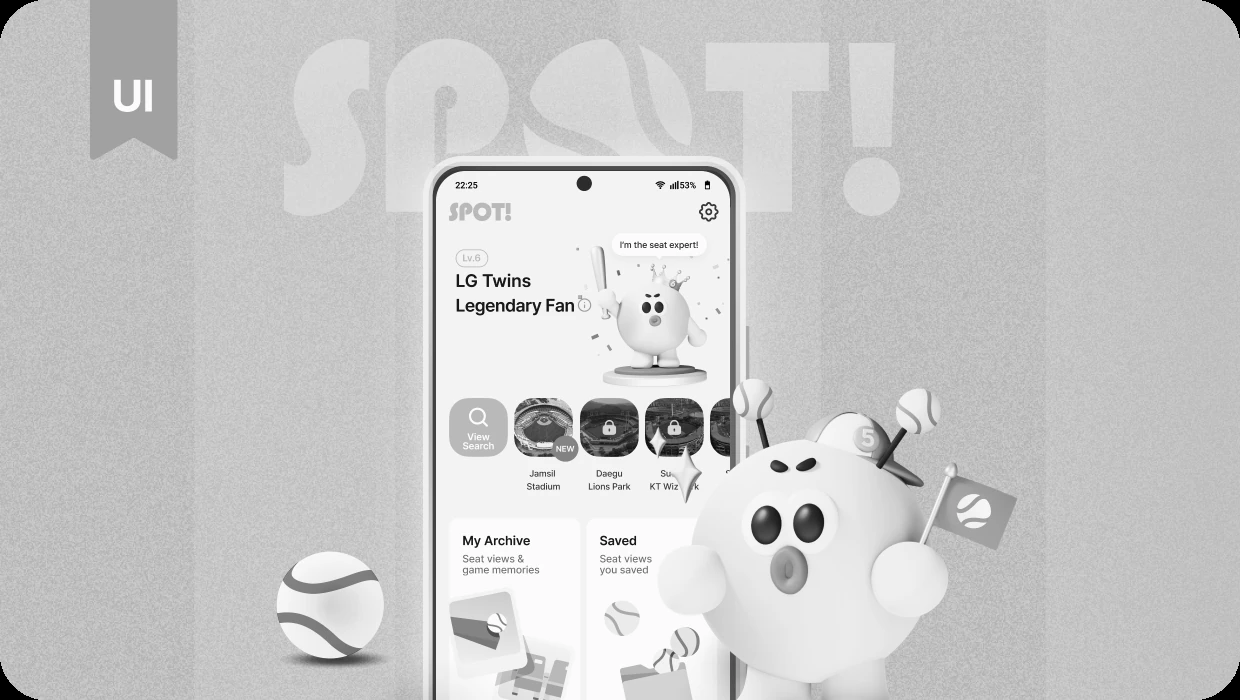
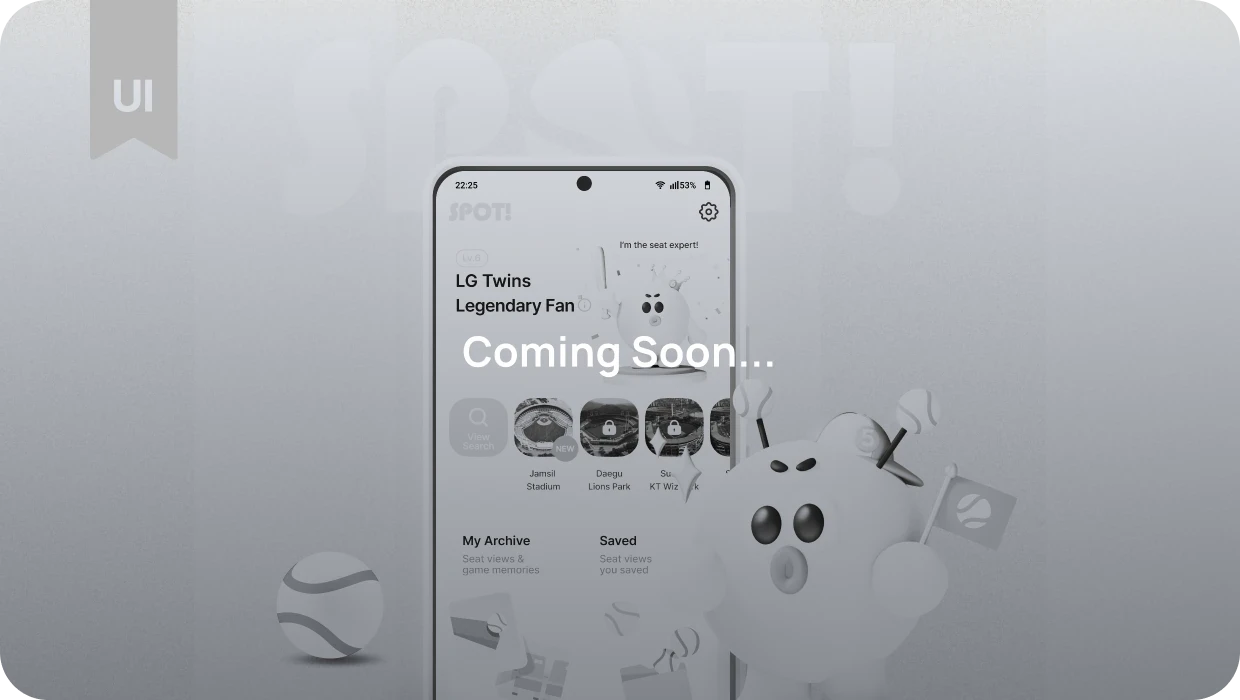
Disabled work cards: Coming Soon thumbnails and updated gray colors (Figma)

diff --git a/styles.css b/styles.css
@@ -18,9 +18,9 @@
   --color-line-light:   #d7d7d7;   /* About dividers — Figma */
 
   /* Disabled work card — Figma */
-  --color-disabled-tag:   #6b6b6b;
-  --color-disabled-title: #959595;
-  --color-disabled-desc:  #a9a9ad;
+  --color-disabled-tag:   #86898e;
+  --color-disabled-title: #86898e;
+  --color-disabled-desc:  #a9abaf;
   --color-divider:      #bcbcbc;   /* Strength open divider */
 
   /* Footer — Figma */
@@ -1189,6 +1189,11 @@ ul { list-style: none; }
 }
 
 /* Disabled work card — gray colors (Figma) */
+.work-card--disabled .work-card__media {
+  border-radius: 24px;
+  background: transparent;
+}
+
 .work-card--disabled .tag {
   color: var(--color-disabled-tag);
   border-color: var(--color-disabled-tag);
